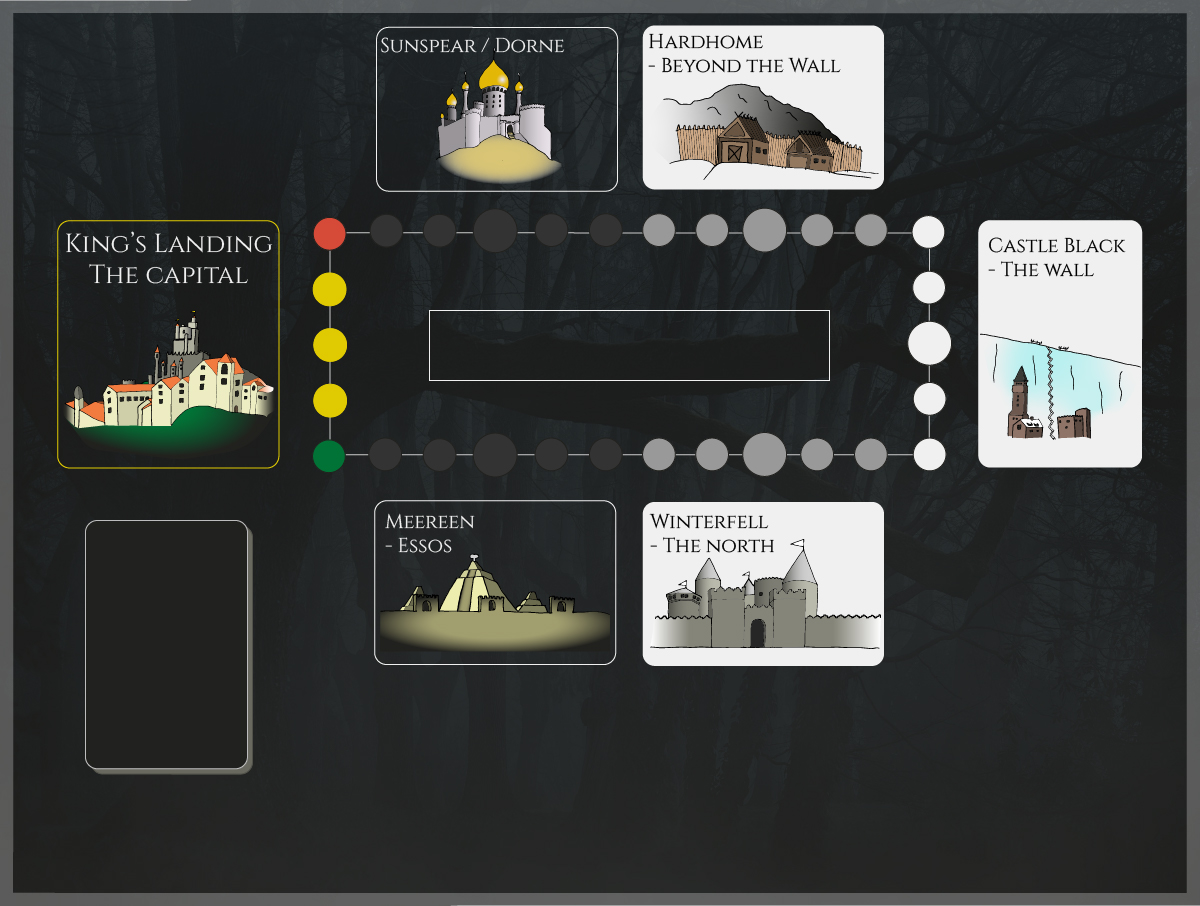
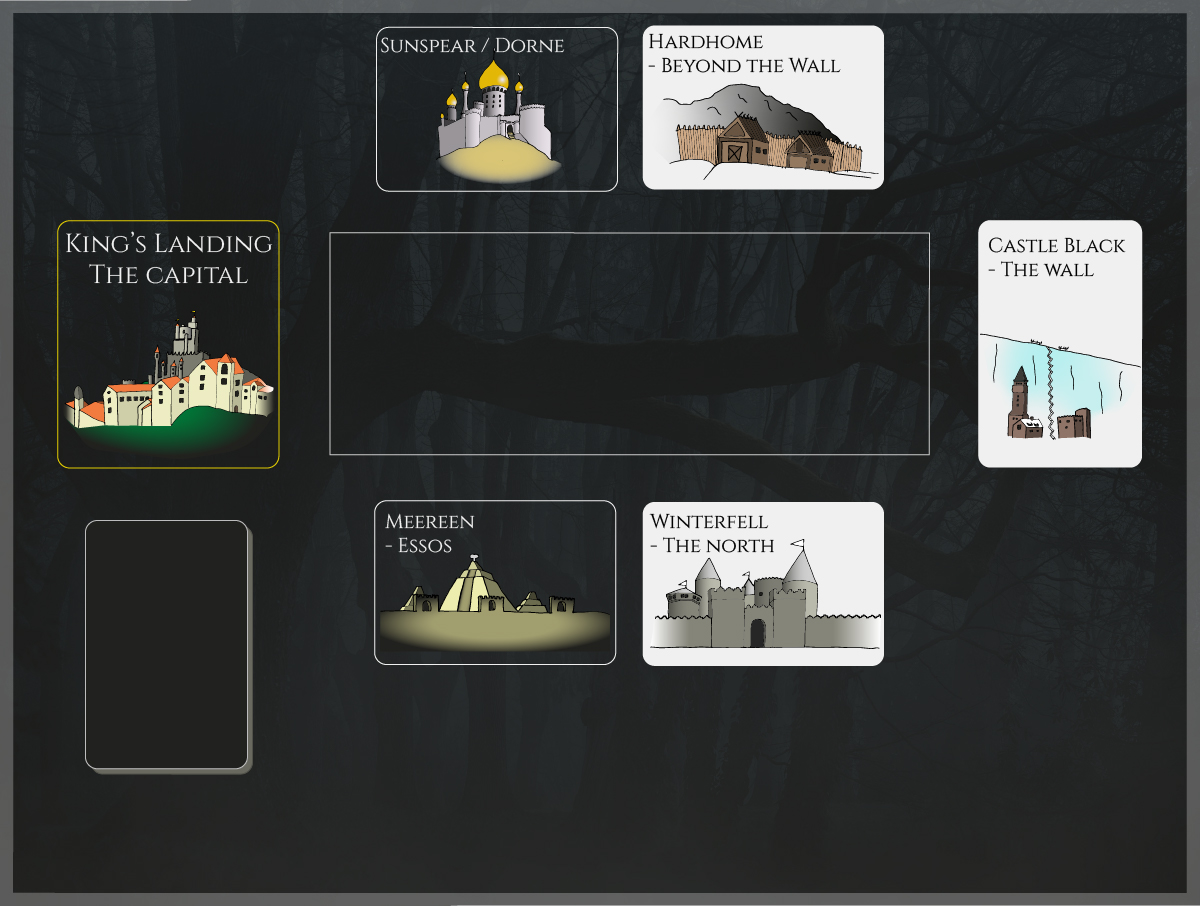
Making changes to gameboard and correcting dice script

Changed region(s): [[0.5242, 0.2163, 0.8017, 0.5254], [0.2467, 0.2472, 0.3083, 0.5254]]

diff --git a/gameboard.html b/gameboard.html
@@ -18,19 +18,18 @@
 
             <!-- Dashboard panel -->
             <div class="gameboard__dashboard">
-                <div class="gameboard__status gameboard__status--player1"></div>
+                <div class="gameboard__status gameboard__turn-status"></div>
                 <div class="gameboard__dice-container">
-                     <animated-dice class ="gameboard__dice">
+                    <animated-dice class = "gameboard__dice">
                     </animated-dice>
                     <!-- Fallback -->  
-                    <div class="fallbackDice"></div>
+                    <!-- <div class="fallbackDice"></div> -->
                 </div>
                
                 <div class="gameboard__status gameboard__status--player2"></div>
             </div>
             
         </section>
-        
     </main>
 
     <!-- Footer -->
@@ -44,6 +43,6 @@
     <script src="https://cdn.jsdelivr.net/npm/popper.js@1.16.0/dist/umd/popper.min.js" integrity="sha384-Q6E9RHvbIyZFJoft+2mJbHaEWldlvI9IOYy5n3zV9zzTtmI3UksdQRVvoxMfooAo" crossorigin="anonymous"></script>
     <script type="text/javascript" src="assets/js/frameworks/bootstrap.min.js"></script>
     <script type="module" src="assets/js/gameboard-script.js"></script>
-    <script nomodule src="assets/js/gameboard-script-fallback.js"></script>
+    <!-- <script nomodule src="assets/js/gameboard-script-fallback.js"></script> -->
 </body>
 </html>

diff --git a/assets/sass/partials/modules/_gameboard.scss b/assets/sass/partials/modules/_gameboard.scss
@@ -16,10 +16,10 @@
 		height: 70px;
 		top: 310.5px;
 		left: 423.5px;
-		border: 1px dashed yellow;
+		// border: 1px dashed yellow;
 	}
 	&__status {
-		background-color: grey;
+		// background-color: grey;
 		width: 160px;
 		height: 100%;
 		&--player1 {
@@ -32,7 +32,6 @@
 	&__dice-container {
 		display: inline-block;
 		margin: 0 auto;
-		background-color: lime;
 		width: 70px;
 		height: 100%;
 	}

diff --git a/assets/js/lib/components/animated-dice/animatedDice.js b/assets/js/lib/components/animated-dice/animatedDice.js
@@ -3,6 +3,7 @@
 const settings = {
 	size: 70
 };
+
 // DO NOT EDIT CODE BELOW THIS LINE
 // --------------------------------
 
@@ -20,6 +21,9 @@ export default customElements.define(
 					.container {
 						width: ${settings.size}px;
 						height: ${settings.size}px;
+						margin: 0 auto;
+						perspective: 1000px;
+						perspective-origin: 50% 100%;
 					}
 					.dice {
 						width: 100%;

diff --git a/assets/css/main.css b/assets/css/main.css
@@ -214,11 +214,9 @@ body ul {
   height: 70px;
   top: 310.5px;
   left: 423.5px;
-  border: 1px dashed yellow;
 }
 
 .gameboard__status {
-  background-color: grey;
   width: 160px;
   height: 100%;
 }
@@ -226,7 +224,6 @@ body ul {
 .gameboard__dice-container {
   display: inline-block;
   margin: 0 auto;
-  background-color: lime;
   width: 70px;
   height: 100%;
 }
